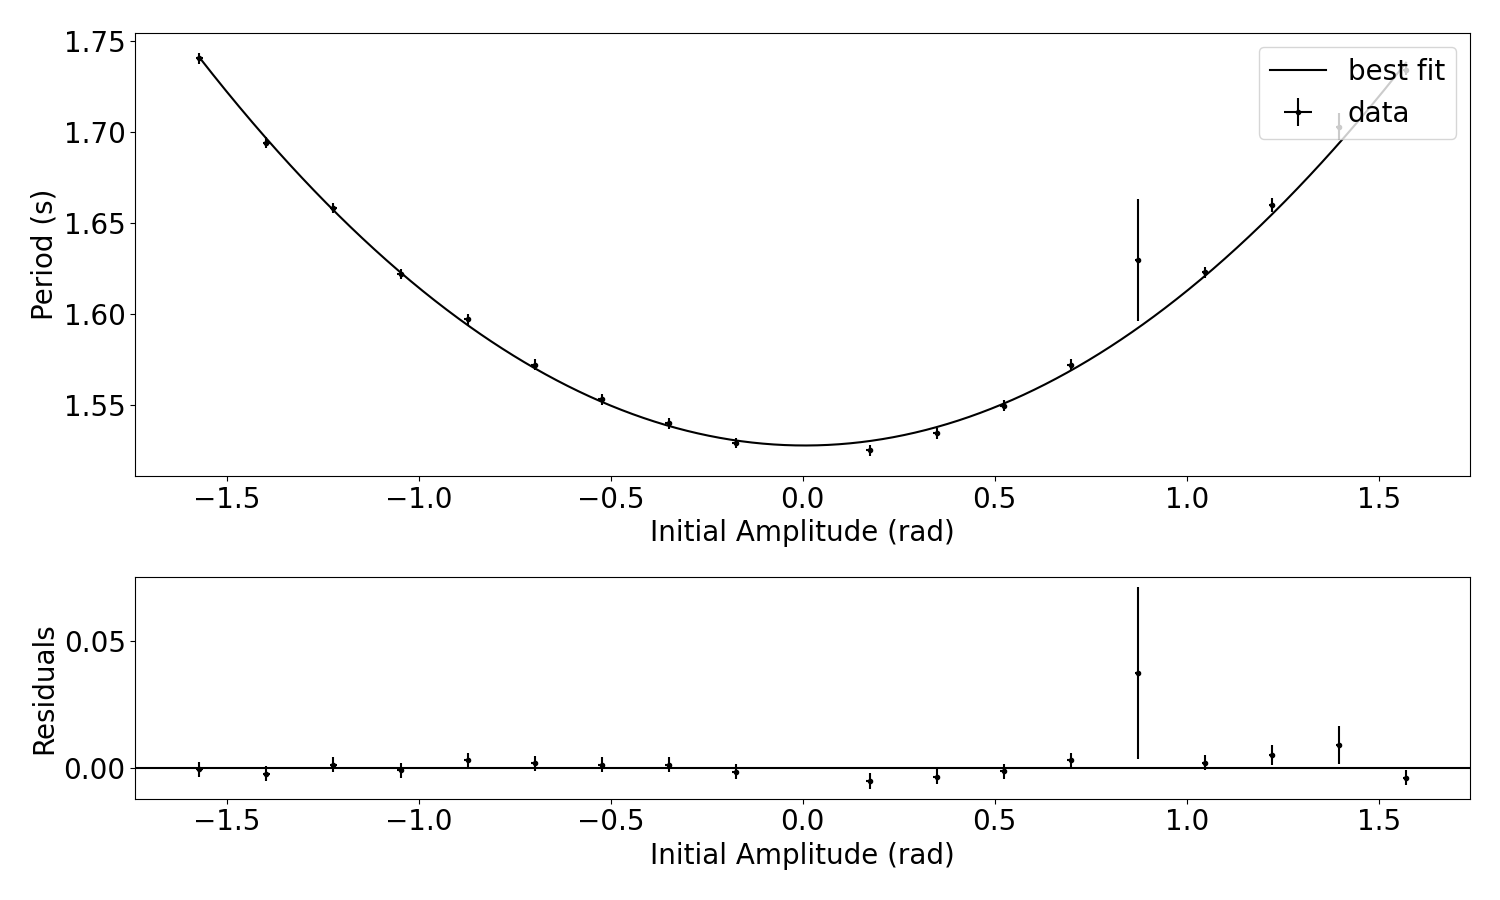
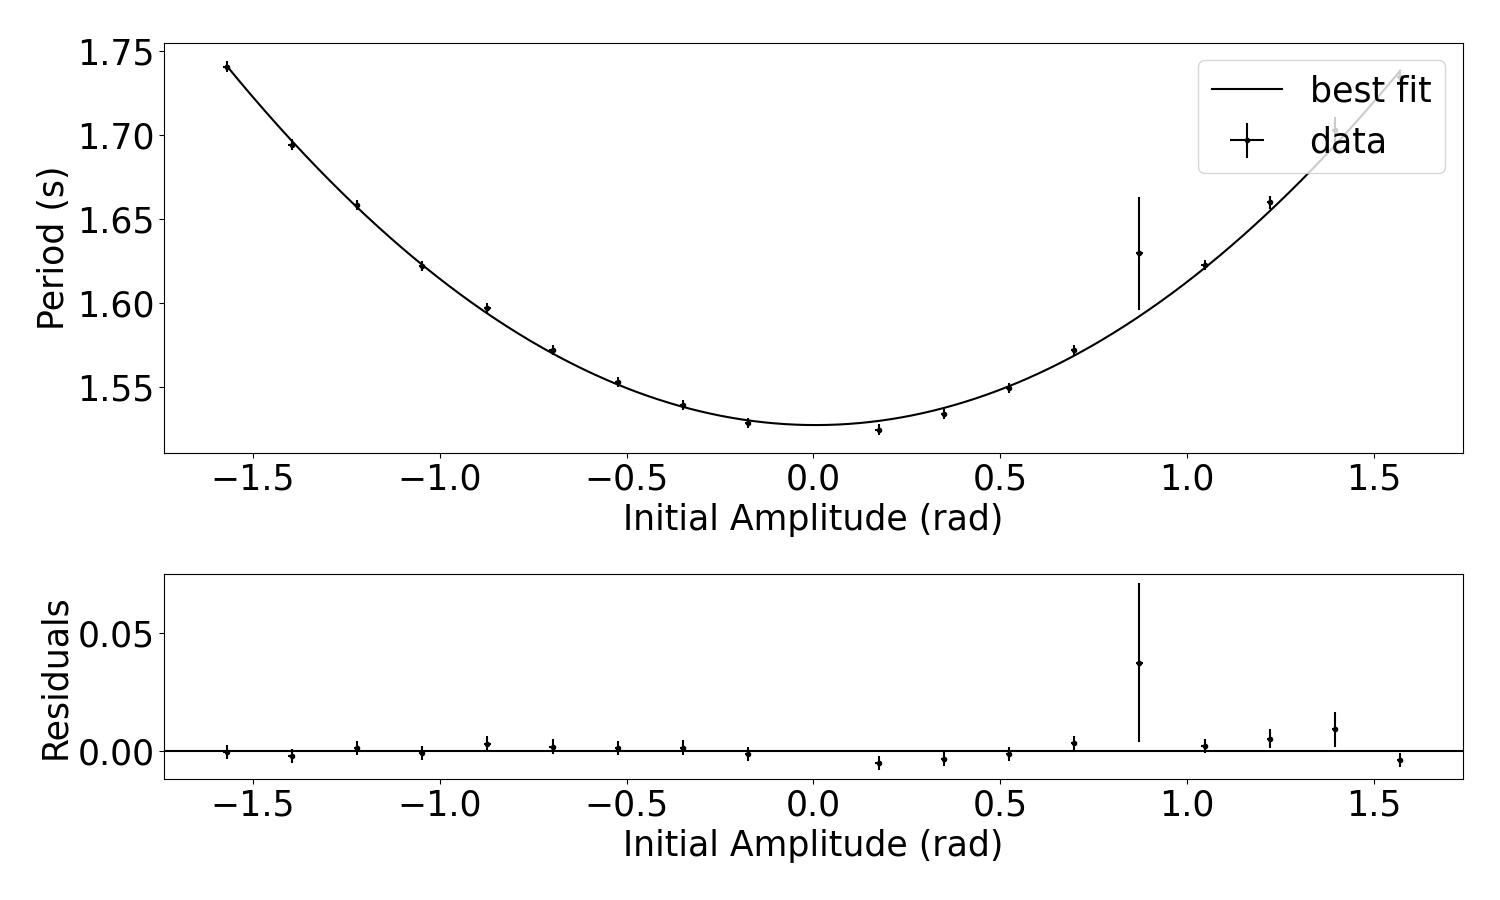
almost done - working on intro

diff --git a/report.tex b/report.tex
@@ -28,12 +28,33 @@ PHY180 Pendulum Project \\ Lab 1: Period vs. Angle and Q factor
 }
 \end{center}
 
+
+
+
+\section{Introduction}
+
+This document describes, briefly, how you should format a paper. The Appendix has some notes on how to use TeX. Most physicists use TeX or one of its variants (like LaTeX) to write papers because it does an excellent job of typesetting equations.
+
+Your introduction should start with a brief summary of your entire report. What are your 1 to 4 most important results? Put them here. Once the reader has read the first paragraph, they should already know whether they want to read the rest of your paper. I recommend writing this summary last, after the conclusion. You really want the first paragraph of your introduction to be very similar to your conclusion.
+
+The rest of your introduction should include an overview of what you did at a high level (you built a pendulum, but don't include details like what materials you used here) and include any theory that is relevant. The introduction is the primary location for introducing new equations. It's not great style to introduce new physics equations in any of the subsequent sections.
+
+Before you write any paper ever, you need to understand who your target audience is. For this paper, pretend your target audience is a high school physics student. Obviously, your real target audience is the grader, but they will be grading your paper as if they were a high school physics student. This is important as it sets what assumptions you can make about what is common knowledge and what should be assumed to be new to the reader.
+
+The objective of this project was to determine the acccuracy of predictions from given models of a pendulum. The experiments examined how a pendulum's initial amplitude $\theta_0$ affects its period $T$ and to measure the $Q$ factor, which represents how slowly its amplitude $\theta$ decays per $T$. Analysis of the collected data and its uncertainties yielded several results. The pendulum was confirmed to be symmetric ($T$ for $\theta > 0$ and $\theta < 0$ are equal). $T$ increases quadratically with $\theta_0$, but after considering uncertainty, it is experimentally equal to a constant small-angle period $T_0$ when $\abs{\theta_0}\leq0.28$. Using a starting amplitude within the small-angle range, $Q$ was calculated from the experimentally determined exponential decay constant $\tau$ and $T$. The amplitude $\theta$ fits closely to the decaying exponential. Considering error, the calculated $Q$ agreed with the $Q$ found by counting the number of $T$ for $\theta$ to decay by a carefully selected factor. 
+
+Once the pendulum was built, most data collection used the Open Source Physics (OSP) Tracker to search the recorded footage. The data, reformatted through Google Sheets, was run through a customized Python script (Wilson, 2025b) to generate best fit data and graphs.
+
+The proposed model claimed that $T$ did not depend on $\theta_0$ at all, that the best fit 3-term power series
+\begin{equation}
+    $T(\theta_0) = T_0(1 + B\theta_0 + C\theta_0^2)$
+\end{equation}
+would yield $T=T_0$ and $B,~ C=0$.
+
 \section{Methods and Procedures}
-% TODO: string type?
-The string was tied around a screw, which was inserted into the mass (tennis ball). Two stacks of books stabilized two boards which jutted off the table and clamped the string, fixing the centre of rotation. A tripod supported the camera (a phone) from a distance, capturing slow-motion footage.
-% TODO: talk about Q
+The string was tied around a screw, which was inserted into the mass (tennis ball). The polypropylene string had negligible strain caused by the weight of the mass. Two stacks of books stabilized two boards which jutted off the table and clamped the string, fixing the centre of rotation. A tripod supported the camera (a phone) from a distance, capturing slow-motion footage.
 \subsection{Measuring Period vs. Initial Amplitude}
-The period was measured with 3 oscillations per trial to reduce type B uncertainty using frame-by-frame analysis of the footage in the Open Source Physics (OSP) Tracker. A protractor taped to the end of the boards measured initial amplitudes ($\pm \pi/2$). When dropping the mass, it was ensured from another angle that the pendulum would swing on a plane perpendicular to the protractor. The string was clamped close to the protractor to prevent parallax in readings (see Figure~\ref{fig:setup1}). 
+The period was measured using frame-by-frame analysis of the footage in the Open Source Physics (OSP) Tracker, with 3 oscillations per trial to reduce type B uncertainty (after confirming that multiple oscillations did not significantly impact $T$, i.e. $Q\gg1$). A protractor taped to the end of the boards measured initial amplitudes ($\pm \pi/2$). When dropping the mass, it was ensured from another angle that the pendulum would swing on a plane perpendicular to the protractor. The string was clamped close to the protractor to prevent parallax in readings (see Figure~\ref{fig:setup1}). 
 
 \begin{figure}[h]
     \centering
@@ -60,24 +81,25 @@ The period was measured with 3 oscillations per trial to reduce type B uncertain
 \end{figure}
 
 \subsection{Measuring Q Factor}
-Footage was collected starting at $\theta_0 \approx 0.26$. As the pendulum could drift off plane with many oscillations, the mass was now hung from two strings of equal length to prevent motion normal to the desired plane (see Figure~\ref{fig:setup2}). The lens of the phone camera was normal to said plane and level with the centre of rotation to reduce parallax error, since max amplitude was now measured from the footage using OSP Tracker's built-in protractor. Not all oscillations were manually tracked for wellness purposes.
+Footage was collected starting at $\theta_0 \approx 0.26$ (within the small-angle approximation). As the pendulum could drift off plane with many oscillations, the mass was now hung from two strings of equal length to prevent motion normal to the desired plane (see Figure~\ref{fig:setup2}). The lens of the phone camera was normal to said plane and level with the centre of rotation to reduce parallax error, since max amplitude was now measured from the footage using OSP Tracker's built-in protractor. Not every oscillation was manually tracked. It would be unnecessary, since it was discovered that the decay constant $\tau \gg T$.
 In addition to analyzing the overall decay to calculuate $Q$, $Q/n$, the number of oscillations (henceforth referred to as $K$) for $\theta$ to decay by a factor of $\e ^ {-\pi/n}$, must be counted. 
-$Q=nK,$ so $u(Q)=nu(K)$. Smaller $n$ result in a larger number of oscillations for which $\theta\approx\theta_{final}$ experimentally \mbox{$(\,\abs{\theta_{final}-\theta} \leq 2u(\theta))$}, increasing $u(K)$. Data from both $n=2$ and $n=3$ were collected, and the dataset with lower $u(Q)$ was used.
+$Q=nK,$ so $u(Q)=nu(K)$. Smaller $n$ can decrease $Q$ but also result in a wider range for $K$ (oscillations for which $\theta\approx\theta_{final}$ experimentally, i.e. $\,\abs{\theta_{final}-\theta} \leq 2u(\theta))$, increasing $u(K)$. Data from both $n=2$ and $n=3$ were collected.
 
 
 \section{Results and Data Analysis}
 \begin{figure}[H]
     \centering
-    \includegraphics[height=0.3\textheight]{output-files/period vs amplitude.png}
+    \includegraphics[height=0.25\textheight]{output-files/period vs amplitude.png}
     \caption{
         Graph of period vs. initial amplitude at release fitted to the 3-term power series 
-        \mbox{$T(\theta_0) = T_0(1 + B\theta_0 + C\theta_0^2)$} (Wilson, 2025). 
-        Amplitude error bars are too small to be visible.
-        The large outlier at $\theta_0=0.873$ was a result of a misdrop but was not artificially discluded.}
+        \mbox{$T(\theta_0) = T_0(1 + B\theta_0 + C\theta_0^2)$} (Wilson, 2025a). $T_0$ is located at the vertex.
+        $\theta_0$ error bars are too small to be visible.
+        The large outlier at $\theta_0=0.873$ was a result of a misdrop but was not artificially discluded.
+        Not all $T$ error bars hit the best fit curve, which is expected.}
     \label{fig:period vs amplitude}
 \end{figure}
 
-The data fits the power series with values ($B,~ C=0$ predicted (Wilson)):
+The data in Figure \ref{fig:period vs amplitude} fits the power series with values ($B,~ C=0$ predicted (Wilson, 2025a)):
 \begin{align*}
     T_0&=1.528 \pm \SI{0.002}{s}, \\
     B&=-0.0006 \pm \SI{0.0005}{s}, \\
@@ -86,7 +108,7 @@ The data fits the power series with values ($B,~ C=0$ predicted (Wilson)):
 As expected, $\abs{B - u(B)} < 2u(B)$ and $B \approx 0$ experimentally, implying a symmetrical pendulum since
 $T(\theta)=T(1+C\theta_0^2)$ is an even function (visually, Figure \ref{fig:period vs amplitude} confirms this).
 
-However, contrary to prediction, $C \neq 0$ experimentally (considering error $C \gg u(C)$, $C$ cannot plausibly considered 0). Indeed, $T(\theta_0)$ grows non-negligibly for larger $\abs{\theta_0}$.
+However, contrary to prediction, $C \neq 0$ experimentally (considering error $C \gg u(C)$, $C$ cannot plausibly considered 0). Indeed, $T(\theta_0)$ grows quadratically with $\abs{\theta_0}$ according to Figure \ref{fig:period vs amplitude}.
 
 The error for the measured variables:
 \begin{alignat*}{2}
@@ -112,58 +134,50 @@ To determine what $\theta_0$ allow $T\approx T_0$ (small angle approximation), i
                 \sqrt{\frac{u(T)}{T_0 C}}=0.25 \pm 0.03
     \end{math}
 \end{center}
-Therefore, the small angle approximation is valid for $\abs{\theta_0}\leq 0.28$. According to the consistent error bars in Figure~\ref{fig:period vs amplitude}, $u(T)=\SI{0.003}{s}$ is indeed valid for $\abs{\theta_0}\leq 0.28~ (u_A(T) < u_B(T))$. However, when $\abs{\theta_0}>0.28$, $T$ depends non-negligibly on $\theta_0$.
+Therefore, the small angle approximation is valid for $\abs{\theta_0}\leq 0.28$. According to the range's consistent error bars in Figure~\ref{fig:period vs amplitude}, $u(T)=\SI{0.003}{s}$ is indeed valid for $\abs{\theta_0}\leq 0.28~ (u_A(T) < u_B(T))$. However, $T$ depends on $\theta_0$, growing quadratically and non-negligibly when $\abs{\theta_0}>0.28$.
 
 \begin{figure}[H]
     \centering
-    \includegraphics[height=0.3\textheight]{output-files/amplitude vs. time.png}
+    \includegraphics[height=0.25\textheight]{output-files/amplitude vs. time.png}
     \caption{
-        Graph of $\theta$ at the peaks of oscillations vs. $t$ fitted to the exponential
-        $\theta(t) = \theta_0 \e ^ {t/\tau}$ (Wilson, 2025). 
-        Time error bars are too small to be visible.
+        Graph of the decaying $\theta$ at the peaks of oscillations vs. $t$ fitted to the exponential
+        $\theta(t) = \theta_0 \e ^ {t/\tau}$ (Wilson, 2025). $\frac{\Delta\theta}{\Delta t}$ per oscillation decreases, which complicates identifying $K$ when many $\theta$ can be considered $\theta_{final}$. 
+        $t$ error bars are too small to be visible.
+        Most, but not all $\theta$ error bars hit the best hit curve, meaning the amplitude can be accurately modelled with exponential decay.
     }
     \label{fig:amplitude vs. time}
 \end{figure}
 
-The exponential fit values and period:
+Type B uncertainties for measured variables:
+\begin{alignat*}{2}
+    u(\theta)&= \SI{0.2}{\degree} = \SI{0.003}{\radian} 
+        &\quad& \text{(OSP Tracker's protractor, accounting for string width)}\\
+    u(t)&= \SI{0.008}{s} 
+        &\quad& \text{(1/\SI{120}{FPS})}
+\end{alignat*}
+
+The exponential fit values and period for Figure \ref{fig:amplitude vs. time}:
 \begin{align*}
     \theta_0&= 0.271 \pm 0.002, \\
     \tau&= 51.3 \pm \SI{0.5}{s} \\
-    T&= \frac{T_{final}+T_0}{2} \pm \frac{T_{final}-T_0}{2} = 1.083 \pm \SI{0.008}{s}
+    T&= \frac{T_0+T_{final}}{2} \pm \frac{T_0-T_{final}}{2} = 1.083 \pm \SI{0.008}{s}
 \end{align*}
 From these values, 
 \begin{displaymath}
-    Q=\pi\frac{\tau}{T} 
+    Q_{fit}=\pi\frac{\tau}{T} 
     \pm \max(\frac{u(\tau)}{\tau}, \frac{u(T)}{T})\,\pi\frac{\tau}{T}
     =149\pm 2
 \end{displaymath}
-
-Type B uncertainties for measured variables:
+By counting $K$ and $u(K)$ for $n=2,~ n=3$: 
 \begin{align*}
-    u(\theta)&= \SI{0.2}{\degree} = \SI{0.003}{\radian} \\
-    u(t)&= \SI{0.003}{s}
+    Q_2&=2(K_2 \pm u(K_2))=2(77 \pm 5)=154 \pm 10 \\
+    Q_3&=3(K_3 \pm u(K_3))=3(55 \pm 3)=165 \pm 9
 \end{align*}
-
-
-Sometimes this is two different sections. However, this experiment has enough parts that I would combine them. This part might want subsections for each of the 4 topics (basically each graph could have its own subsection). Depending on how clear you write, subsections may not be necessary.
-
-This section is about presenting your raw data, interpreting it properly for the reader, and discussing your uncertainties. You will want to graph your data (no tables of data please!) with the line of best fit. You will want to explicitly describe the line of best fit (probably by referencing one of the equations from your introduction) and any other important features of the graph (slope, intercepts, whatever is important). Make concrete what the data and graph should tell the reader. All the important results that you included in your introduction and conclusion need to be explicitly explained here. Your analysis should reference every graph. For example: ``In Figure \ref{fig:FallingRock} we see that the position of a falling rock in the asteroid is well-fit by a quadratic function. This indicates that the acceleration due to gravity is approximately a constant.''
-
-\begin{figure}[h!]
-\begin{centering}
-% \includegraphics[width=0.6 \textwidth]{graph.png}
-\label{fig:FallingRock}
-\caption{Time series data of the height of a rock falling near the surface of an asteroid. Best fit line is a quadratic corresponding to an acceleration of $1.4 \pm 0.2~ \mathrm{m/s^2}$. Note how the title is not simply `Height-Time graph', which is information already present. If your errorbars are too small to be seen, specificaly state that in this caption. You should aim for your captions to explain a lot. Ideally, if a reader only reads your first paragraph of your introduction plus the captions of your graph they should understand about half of your paper!}
-\end{centering}
-\end{figure}
-
-You will want to comment on how good the line of fit is, based on your uncertainties. And you will want to describe as many of the uncertainty sources as you found, include your estimated values for each uncertainty source, and then clearly state which was the largest and most important source.
-It is likely that your first experiment will have a detailed analysis of uncertainties, and that the subsequent experiments will have basically the same uncertainty budgets. In this case you should not repeat the uncertainty analysis, but you should repeat the results. Something like, `As with the previous experiments, the largest source of uncertainty was due to blah and had a magnitude of blah.'
-
-Your results section {\bf must have quantitative conclusions}. Did the two ways of measuring the Q factor agree with each other? State this clearly with a quantitative assessment. You will need to explain your criteria for assessing this. For example, if you decided that if the values overlap by less than two uncertainty ranges then you will claim they agree, you should make this criteria explicit.
-
+$Q_2$ experimentally agrees fully with $Q_{fit}$ ($\,\abs{Q_{fit}-Q_2} \leq u(Q_2))$, while the minimum distance between $Q_3$ and $Q_{fit}$'s error bars is $\frac{5}{2}u(Q_{fit})=\frac{5}{9}u(Q_3)$, which is acceptably close. Thus, it can be concluded that the two methods for measuring Q agree.
 
 \section{Conclusion}
+By analyzing experimental uncertainty, it was concluded that the period $T$ can be approximated as the small-angle period $T_0=1.528 \pm \SI{0.002}{s}$ for $\abs{\theta_0}\leq 0.28$ but grows quadratically for $\abs{\theta_0} > 0.28$. Note that $\abs{\theta_0}$ is used as that the pendulum was confirmed to be symmetric ($B=0$). The pendulum's $\theta$ can be accurately modelled with exponential decay $\theta=\theta_0\e ^ {\tau/t}$. $Q=149\pm2$ calculated from $\tau$ and $T$ agrees with the $Q_2=150\pm10$ and $Q_3=165\pm9$ obtained by counting $K$ for $n=2$, $n=3$. 
+For future experiments, the two-string setup which restricts non-planar motion should always be used. Measuring $T$ in other experiments will be quite error-tolerant since slight differences in $\theta_0$ negligibly change it.
 
 Repeat all your judgment calls. Is period independent of angle? Does the amplitude decay exponentially, and if so do the two Q factor measurements agree? Is $T=2\sqrt{L}$ correct? Quantify how correct it is; for example, if you found the value was $1.95 \pm 0.03$ instead of 2, include that here and comment on whether your value agrees with 2; do not force the reader to make decisions, do it for them. What dependence did you find for the Q factor in terms of pendulum length? These must be clearly restated, preferably quantitatively.
 

diff --git a/yippee.py b/yippee.py
@@ -57,7 +57,7 @@ def load_exponential_amplitude(filename):
     amplitude_error = np.array([np.deg2rad(0.2)] * len(amplitudes))
     return times, amplitudes, time_error, amplitude_error
 
-def plot_fit(my_func, xdata, ydata, xerror=None, yerror=None, init_guess=None, font_size=20,
+def plot_fit(my_func, xdata, ydata, xerror=None, yerror=None, init_guess=None, font_size=25,
              xlabel="", ylabel="Period (s)", 
              title="",
              output_filename = "graph.png"
